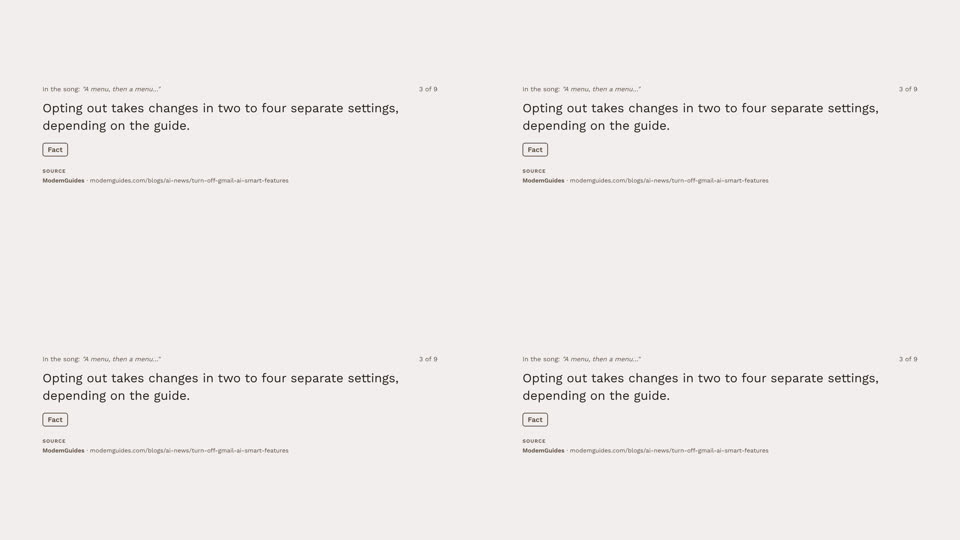
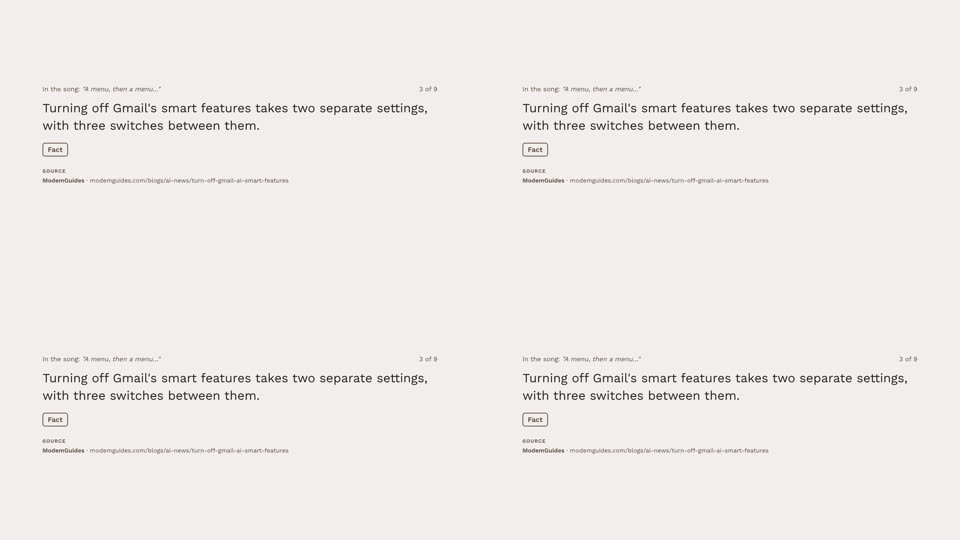
M8 fixes rendered: full cut and school short (sync verified); M8 resolved
Claude-Session: https://claude.ai/code/session_01U1tVYjDQe516Mp7MHbmFPv

diff --git a/log/production_log.md b/log/production_log.md
@@ -465,3 +465,4 @@ Append-only. One entry per action: timestamp, step (shot ID where relevant), wha
 - **Song doc** (fact card, rev 58; direct edits at the human's approval): card G ("existing consumer users"; "Gemini and ChatGPT audited it; their findings and the fixes are logged."); F3's count; F4's Microsoft line and status; F9's "On Nov. 3, 2026, … had told" and the senators' letter; sources added to F1 (Google, May 14, 2024), F2 (the docket), F4 (Microsoft Support), F7 (ACCC), F9 (the Blumenthal–Hawley letter); F5's inkl swapped for Euronews. The audit prompt's own copy of F3 in the song doc is history and stays. Re-mirrored to `docs/song_doc_full.md`; every card in `closing.json` matches it word for word.
 - **Video:** `closing.json` as above (card G also cites Anthropic's announcement); the correction caption ends "from Search."; the quote caption reads "Google's VP for education told The New York Times on Nov. 3, 2026 that Search and AI are "deeply integrated.""; S28's fine print quotes and dates nothing; the maze's "Smart features" is an ordinary window; the TV says "Can't delete this shortcut. Hide it instead?" (box widened). The closing runs longer (F9 22.8 s, F4 10.2 s, G 15.1 s): 11,323 frames.
 - **Docs:** brief S53 and S55 rows (doc rev 98, `docs/brief.md`); `METADATA.md`'s fact bullets and sources (one primary source per fact, the rest in the new `docs/sources.md`; 4,768 characters); README links `docs/sources.md` and `log/audits/`. `log/audits/03_review.md` marked applied.
+- **2026-11-10T02:36:** the M8 fixes rendered and checked in the cut and the school short (`log/renders.md`). M8 is resolved: every flag in `log/audits/03_review.md` applied at the human's approval.

diff --git a/log/renders.md b/log/renders.md
@@ -150,3 +150,9 @@ Every render: timestamp, shot ID, composition, props, commit hash, output, conta
 - **Compositions:** `Sec05-Lesson` from the working tree of this commit (L16's words, mouths and karaoke); `scripts/assemble.sh`; the sending copy at CRF 29.
 - **Checks:** 11,128 frames; sync −0.0001 s / 0.0000 s / 0.0000 s at 30 s, 150 s and 245 s; S20's karaoke reads "And "opt-out" means nobody asked you, and you're hunting for the spot!".
 - **Outputs:** `renders/m4/sec05_lesson.mp4`, `renders/m4/m4_full.mp4`, the review copies, contact sheets. Superseded: `archive/renders/m5_karaoke_2026-11-10/`.
+
+## 2026-11-10T02:36 — M8 fixes: Sec05, Sec06, Sec09, Sec11; the full cut; the school short
+
+- **Compositions:** `Sec05-Lesson`, `Sec06-Verse2`, `Sec09-Bridge`, `Sec11-Outroandreveal` from 033268f; the other sections as before. `scripts/assemble.sh`; the sending copy at CRF 29; `VerticalSchool` → `deliverables/vertical_school.mp4`.
+- **Checks:** 11,128 → 11,323 frames (6:17.4; the longer cards); sync −0.0001 s / 0.0000 s / 0.0000 s at 30 s, 150 s and 245 s; the credits music fades from 373.433 s. In the render: S28's new fine print, the TV's "shortcut" dialog, both school captions ("on Nov. 3, 2026", "from Search."), card F9, the Sound card at the end; the school short's large captions carry the new wording.
+- **Outputs:** the four sections, `renders/m4/m4_full.mp4`, the review copies (send copy 26.4 MB), `deliverables/vertical_school.mp4` (21.9 MB), contact sheets in `review/`. Superseded: `archive/renders/m8_pre_fixes_2026-11-10/`.
